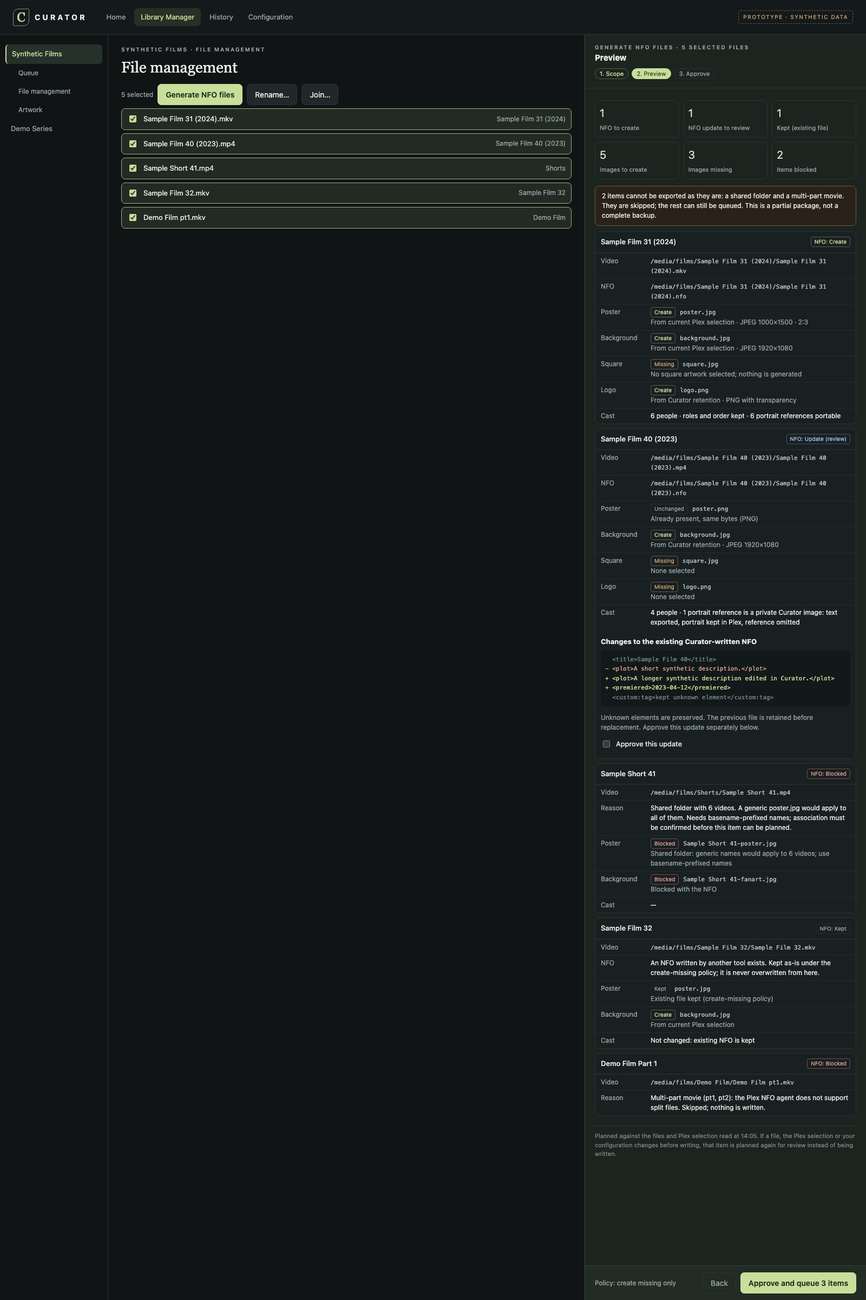
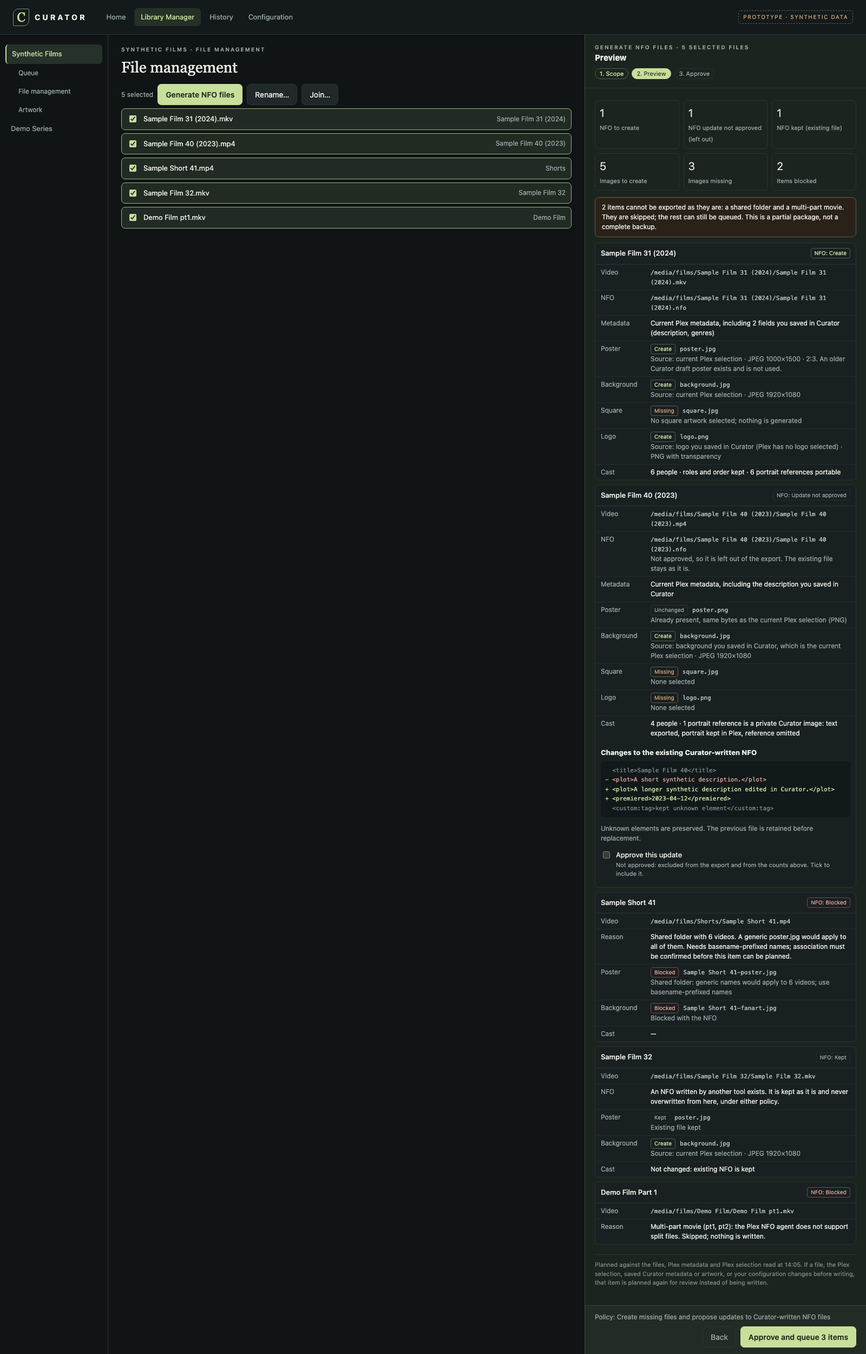
NFO export review design: policy and update approval drive every count; one File operations job; current sources (#106)
Addresses Codex review of 1abb397 and the operator's 2026-11-21 source
decision: counts, footer, confirmation, queue card and receipt are computed
from the selected policy and per-update approval, with not-approved and
approved scenarios; the queued export is one job in File operations with
empty queue types hidden; every file shows its current source.

diff --git a/docs/designs/v2-nfo-backfill-20261120/prototype.html b/docs/designs/v2-nfo-backfill-20261120/prototype.html
@@ -37,20 +37,38 @@ dialog{background:#1b2324;color:var(--text);border:1px solid #42504d;border-radi
 const S=new URLSearchParams(location.hash.slice(1)).get('s')||'scope';
 const h=(t,a={},...k)=>{const e=document.createElement(t);for(const [x,v] of Object.entries(a)){if(x==='class')e.className=v;else if(v!=null&&v!==false)e.setAttribute(x,v===true?'':v);}for(const c of k.flat())if(c!=null&&c!==false)e.append(c instanceof Node?c:document.createTextNode(c));return e;};
 const tag=(cls,text)=>h('span',{class:'tag '+cls},text);
-// Synthetic plan items (shape proposed for #90/#91): one row per media file
+// Synthetic plan items (shape proposed for #90/#91): one row per media file.
+// Every count, footer, confirmation, queue card and receipt below is computed from POLICY and APPROVED,
+// so the approval shown always agrees with the manifest.
+const POLICY=['detail','approved','approve','queued','receipt'].includes(S)?'update':'create';
+const APPROVED=['approved','approve','queued','receipt'].includes(S);
 const ITEMS=[
  {title:'Sample Film 31 (2024)',folder:'/media/films/Sample Film 31 (2024)/',video:'Sample Film 31 (2024).mkv',nfo:['create','Sample Film 31 (2024).nfo'],
-  images:[['Poster','poster.jpg','create','From current Plex selection · JPEG 1000×1500 · 2:3'],['Background','background.jpg','create','From current Plex selection · JPEG 1920×1080'],['Square','square.jpg','missing','No square artwork selected; nothing is generated'],['Logo','logo.png','create','From Curator retention · PNG with transparency']],cast:'6 people · roles and order kept · 6 portrait references portable'},
- {title:'Sample Film 40 (2023)',folder:'/media/films/Sample Film 40 (2023)/',video:'Sample Film 40 (2023).mp4',nfo:['update','Sample Film 40 (2023).nfo'],
-  images:[['Poster','poster.png','same','Already present, same bytes (PNG)'],['Background','background.jpg','create','From Curator retention · JPEG 1920×1080'],['Square','square.jpg','missing','None selected'],['Logo','logo.png','missing','None selected']],cast:'4 people · 1 portrait reference is a private Curator image: text exported, portrait kept in Plex, reference omitted',existing:true},
+  metadata:'Current Plex metadata, including 2 fields you saved in Curator (description, genres)',
+  images:[['Poster','poster.jpg','create','Source: current Plex selection · JPEG 1000×1500 · 2:3. An older Curator draft poster exists and is not used.'],['Background','background.jpg','create','Source: current Plex selection · JPEG 1920×1080'],['Square','square.jpg','missing','No square artwork selected; nothing is generated'],['Logo','logo.png','create','Source: logo you saved in Curator (Plex has no logo selected) · PNG with transparency']],cast:'6 people · roles and order kept · 6 portrait references portable'},
+ {title:'Sample Film 40 (2023)',folder:'/media/films/Sample Film 40 (2023)/',video:'Sample Film 40 (2023).mp4',nfo:['existing','Sample Film 40 (2023).nfo'],existing:true,
+  metadata:'Current Plex metadata, including the description you saved in Curator',
+  images:[['Poster','poster.png','same','Already present, same bytes as the current Plex selection (PNG)'],['Background','background.jpg','create','Source: background you saved in Curator, which is the current Plex selection · JPEG 1920×1080'],['Square','square.jpg','missing','None selected'],['Logo','logo.png','missing','None selected']],cast:'4 people · 1 portrait reference is a private Curator image: text exported, portrait kept in Plex, reference omitted'},
  {title:'Sample Short 41',folder:'/media/films/Shorts/',video:'Sample Short 41.mp4',nfo:['block','—'],shared:true,
   images:[['Poster','Sample Short 41-poster.jpg','block','Shared folder: generic names would apply to 6 videos; use basename-prefixed names'],['Background','Sample Short 41-fanart.jpg','block','Blocked with the NFO']],cast:'—'},
  {title:'Sample Film 32',folder:'/media/films/Sample Film 32/',video:'Sample Film 32.mkv',nfo:['skip','Sample Film 32.nfo'],third:true,
-  images:[['Poster','poster.jpg','skip','Existing file kept (create-missing policy)'],['Background','background.jpg','create','From current Plex selection']],cast:'Not changed: existing NFO is kept'},
+  images:[['Poster','poster.jpg','skip','Existing file kept'],['Background','background.jpg','create','Source: current Plex selection · JPEG 1920×1080']],cast:'Not changed: existing NFO is kept'},
  {title:'Demo Film Part 1',folder:'/media/films/Demo Film/',video:'Demo Film pt1.mkv',nfo:['block','—'],
   images:[],cast:'—',multipart:true},
 ];
-const labels={create:'Create',same:'Unchanged',update:'Update (review)',block:'Blocked',missing:'Missing',skip:'Kept'};
+const labels={create:'Create',same:'Unchanged',update:'Update (approved)',proposed:'Update (needs approval)',excluded:'Update not approved',block:'Blocked',missing:'Missing',skip:'Kept',kept:'Kept'};
+const tagClass={proposed:'update',excluded:'skip',kept:'skip'};
+// The NFO action for an item under the current policy and approval.
+function nfoState(it){if(!it.existing)return it.nfo[0];if(POLICY==='create')return 'kept';return APPROVED?'update':(S==='detail'?'excluded':'proposed');}
+function manifest(){const m={items:0,create:0,update:0,excluded:0,kept:0,images:0,missing:0,blocked:0};
+ for(const it of ITEMS){const n=nfoState(it);if(n==='block'){m.blocked++;continue;}
+  if(n==='create')m.create++;if(n==='update')m.update++;if(n==='excluded'||n==='proposed')m.excluded++;if(n==='skip'||n==='kept')m.kept++;
+  const images=it.images.filter(i=>i[2]==='create').length;m.images+=images;m.missing+=it.images.filter(i=>i[2]==='missing').length;
+  if(n==='create'||n==='update'||images)m.items++;}
+ return m;}
+const M=manifest(),plural=(n,one,many)=>n+' '+(n===1?one:many);
+const policyText=POLICY==='create'?'Create missing files only':'Create missing files and propose updates to Curator-written NFO files';
+function nfoParts(){return [M.create?plural(M.create,'new NFO file','new NFO files'):null,M.update?plural(M.update,'approved NFO update','approved NFO updates')+' (previous file retained)':null,plural(M.images,'image','images')].filter(Boolean).join(', ');}
 function side(){return h('nav',{class:'side'},h('div',{class:'sel'},'Synthetic Films'),h('div',{class:'sub'},'Queue'),h('div',{class:'sub'},'File management'),h('div',{class:'sub'},'Artwork'),h('div',{},'Demo Series'));}
 function list(){const l=h('main',{class:'list'},h('div',{class:'eyebrow'},'SYNTHETIC FILMS · FILE MANAGEMENT'),h('h1',{},'File management'),
  h('div',{class:'row'},h('span',{class:'muted'},'5 selected'),h('button',{class:'primary'},'Generate NFO files'),h('button',{},'Rename…'),h('button',{},'Join…')));
@@ -61,48 +79,59 @@ function steps(n){return h('div',{class:'steps'},...['Scope','Preview','Approve'
 function scope(){return [h('div',{class:'head'},h('div',{class:'eyebrow'},'GENERATE NFO FILES'),h('h2',{},'Choose what to export'),steps(0)),
  h('div',{class:'body'},
   h('fieldset',{},h('legend',{},'Scope'),opt('scope','5 selected files',true,'Exactly the files selected in the list'),opt('scope','Folder: Sample Film 31 (2024)',false,'Every video under this folder'),opt('scope','Whole library: Synthetic Films (140 files)',false,'Large plans are summarised; every item can be expanded')),
-  h('fieldset',{},h('legend',{},'Existing files'),opt('policy','Create missing files only (default)',true,'Existing NFO and image files are kept untouched'),opt('policy','Also propose updates to Curator-written files',false,'Each update is shown as a difference and must be approved; the previous file is retained. Files written by other tools are never updated here.')),
-  h('fieldset',{},h('legend',{},'Include'),opt('inc','NFO metadata',true,'Title, description, dates, studio, genres, verified IDs, ratings with their source, credits and cast',true),opt('inc','Every available supported image',true,'Poster, background, square artwork and logo beside the video, using Plex names. Missing kinds are reported, never generated.',true)),
+  h('fieldset',{},h('legend',{},'Existing files'),opt('policy','Create missing files only (default)',true,'Existing NFO and image files are kept untouched'),opt('policy','Also propose updates to Curator-written NFO files',false,'Each update is shown as a difference and must be approved one by one; an update you do not approve is left out. The previous file is retained. Files written by other tools are never updated here.')),
+  h('fieldset',{},h('legend',{},'Include'),opt('inc','NFO metadata',true,'Current Plex metadata, including edits you saved in Curator: title, description, dates, studio, genres, verified IDs, ratings with their source, credits and cast',true),opt('inc','Every available supported image',true,'The current Plex selection, or artwork you explicitly saved in Curator, beside the video using Plex names. Each image shows its source. Missing kinds are reported, never generated.',true)),
   h('p',{class:'muted'},'Planning reads Plex and your files only. Nothing is written until you approve, and Plex is not refreshed or switched to another agent.')),
  h('div',{class:'foot'},h('button',{class:'subtle'},'Cancel'),h('button',{class:'primary',style:'margin-left:auto'},'Build preview'))];}
 function opt(name,text,checked,sub,locked){return h('label',{class:'opt'},h('input',{type:name==='inc'?'checkbox':'radio',name,checked,disabled:locked}),h('span',{},text,h('small',{},sub)));}
 function itemCard(it,open){
- const c=h('section',{class:'item'},h('div',{class:'top'},h('b',{},it.title),tag(it.nfo[0],'NFO: '+labels[it.nfo[0]])));
+ const n=nfoState(it),c=h('section',{class:'item'},h('div',{class:'top'},h('b',{},it.title),tag(tagClass[n]||n,'NFO: '+labels[n])));
  const t=h('table',{});
  t.append(h('tr',{},h('td',{},'Video'),h('td',{},h('span',{class:'path'},it.folder+it.video))));
  if(it.multipart){t.append(h('tr',{},h('td',{},'Reason'),h('td',{},'Multi-part movie (pt1, pt2): the Plex NFO agent does not support split files. Skipped; nothing is written.')));c.append(t);return c;}
  if(it.shared){t.append(h('tr',{},h('td',{},'Reason'),h('td',{},'Shared folder with 6 videos. A generic poster.jpg would apply to all of them. Needs basename-prefixed names; association must be confirmed before this item can be planned.')));}
- if(it.third){t.append(h('tr',{},h('td',{},'NFO'),h('td',{},'An NFO written by another tool exists. Kept as-is under the create-missing policy; it is never overwritten from here.')));}
- else if(!it.shared)t.append(h('tr',{},h('td',{},'NFO'),h('td',{},h('span',{class:'path'},it.folder+it.nfo[1]))));
+ if(it.third){t.append(h('tr',{},h('td',{},'NFO'),h('td',{},'An NFO written by another tool exists. It is kept as it is and never overwritten from here, under either policy.')));}
+ else if(n==='kept')t.append(h('tr',{},h('td',{},'NFO'),h('td',{},h('span',{class:'path'},it.folder+it.nfo[1]),h('div',{class:'muted'},'A Curator-written NFO exists and is kept as it is under the create-missing policy. Choose “Also propose updates” to review changes to it.'))));
+ else if(!it.shared)t.append(h('tr',{},h('td',{},'NFO'),h('td',{},h('span',{class:'path'},it.folder+it.nfo[1]),n==='excluded'||n==='proposed'?h('div',{class:'muted'},'Not approved, so it is left out of the export. The existing file stays as it is.'):null)));
+ if(it.metadata)t.append(h('tr',{},h('td',{},'Metadata'),h('td',{},it.metadata)));
  for(const [k,f,st,why] of it.images)t.append(h('tr',{},h('td',{},k),h('td',{},h('div',{class:'row'},tag(st,labels[st]),h('span',{class:'path'},f)),h('div',{class:'muted'},why))));
  t.append(h('tr',{},h('td',{},'Cast'),h('td',{},it.cast)));
  c.append(t);
- if(open&&it.existing)c.append(h('div',{style:'padding:0 10px 10px'},h('h3',{},'Changes to the existing Curator-written NFO'),h('div',{class:'diff'},
+ if(open&&it.existing&&POLICY==='update')c.append(h('div',{style:'padding:0 10px 10px'},h('h3',{},'Changes to the existing Curator-written NFO'),h('div',{class:'diff'},
   h('span',{class:'keep'},'  <title>Sample Film 40</title>\n'),h('span',{class:'del'},'- <plot>A short synthetic description.</plot>\n'),h('span',{class:'add'},'+ <plot>A longer synthetic description edited in Curator.</plot>\n'),h('span',{class:'add'},'+ <premiered>2023-04-12</premiered>\n'),h('span',{class:'keep'},'  <custom:tag>kept unknown element</custom:tag>\n')),
-  h('p',{class:'muted'},'Unknown elements are preserved. The previous file is retained before replacement. Approve this update separately below.'),h('label',{class:'opt'},h('input',{type:'checkbox'}),h('span',{},'Approve this update'))));
+  h('p',{class:'muted'},'Unknown elements are preserved. The previous file is retained before replacement.'),
+  h('label',{class:'opt'},h('input',{type:'checkbox',checked:APPROVED}),h('span',{},'Approve this update',h('small',{},APPROVED?'Approved: included in the export and in the counts above.':'Not approved: excluded from the export and from the counts above. Tick to include it.')))));
  return c;}
-function preview(open){return [h('div',{class:'head'},h('div',{class:'eyebrow'},'GENERATE NFO FILES · 5 SELECTED FILES'),h('h2',{},'Preview'),steps(1)),
+function preview(open){
+ const tiles=[[M.create,'NFO to create']];
+ if(M.update)tiles.push([M.update,'NFO update approved']);
+ if(M.excluded)tiles.push([M.excluded,POLICY==='update'?'NFO update not approved (left out)':'NFO update']);
+ tiles.push([M.kept,'NFO kept (existing file)'],[M.images,'Images to create'],[M.missing,'Images missing'],[M.blocked,'Items blocked']);
+ return [h('div',{class:'head'},h('div',{class:'eyebrow'},'GENERATE NFO FILES · 5 SELECTED FILES'),h('h2',{},'Preview'),steps(1)),
  h('div',{class:'body'},
-  h('div',{class:'sum'},...[['1','NFO to create'],['1','NFO update to review'],['1','Kept (existing file)'],['5','Images to create'],['3','Images missing'],['2','Items blocked']].map(([n,t])=>h('div',{},h('b',{},n),h('small',{},t)))),
-  h('div',{class:'banner warn'},'2 items cannot be exported as they are: a shared folder and a multi-part movie. They are skipped; the rest can still be queued. This is a partial package, not a complete backup.'),
+  h('div',{class:'sum'},...tiles.map(([n,t])=>h('div',{},h('b',{},String(n)),h('small',{},t)))),
+  h('div',{class:'banner warn'},M.blocked+' items cannot be exported as they are: a shared folder and a multi-part movie. They are skipped; the rest can still be queued. This is a partial package, not a complete backup.'),
   ...ITEMS.map((it,i)=>itemCard(it,open&&i===1)),
-  h('p',{class:'note'},'Planned against the files and Plex selection read at 14:05. If a file, the Plex selection or your configuration changes before writing, that item is planned again for review instead of being written.')),
- h('div',{class:'foot'},h('span',{class:'muted'},'Policy: create missing only'),h('button',{class:'subtle',style:'margin-left:auto'},'Back'),h('button',{class:'primary',id:'approve'},'Approve and queue 3 items'))];}
+  h('p',{class:'note'},'Planned against the files, Plex metadata and Plex selection read at 14:05. If a file, the Plex selection, saved Curator metadata or artwork, or your configuration changes before writing, that item is planned again for review instead of being written.')),
+ h('div',{class:'foot'},h('span',{class:'muted'},'Policy: '+policyText),h('button',{class:'subtle',style:'margin-left:auto'},'Back'),h('button',{class:'primary',id:'approve'},'Approve and queue '+plural(M.items,'item','items')))];}
 function queueOrHistory(){
  const m=h('main',{class:'list'});
- if(S==='queued'){m.append(h('div',{class:'eyebrow'},'ALL LIBRARIES'),h('h1',{},'Queue'),h('div',{class:'banner ok'},'NFO export queued: 3 items, 2 skipped. It runs in File operations with the existing limit, pause and recovery. The queue was not started by this approval.'),
-  h('div',{class:'lanes'},h('section',{class:'lane'},h('h3',{},'UPSCALING'),h('p',{class:'muted'},'Nothing waiting.')),h('section',{class:'lane'},h('h3',{},'ENCODING'),h('p',{class:'muted'},'Nothing waiting.')),
-   h('section',{class:'lane'},h('h3',{},'FILE OPERATIONS'),h('div',{class:'job'},'Export NFO and artwork · Synthetic Films',h('small',{},'3 items · waiting for Start queue'),h('small',{},'Writes beside media only; never refreshes Plex')))));return m;}
+ if(S==='queued'){m.append(h('div',{class:'eyebrow'},'ALL LIBRARIES'),h('h1',{},'Queue'),h('div',{class:'banner ok'},'NFO export queued as one File operations job with '+plural(M.items,'approved item','approved items')+'; '+M.blocked+' skipped. It uses the existing limit, pause and recovery. The queue was not started by this approval.'),
+  h('div',{class:'lanes'},h('section',{class:'lane'},h('h3',{},'FILE OPERATIONS'),h('div',{class:'job'},'Export NFO and artwork · Synthetic Films',h('small',{},'One job · '+plural(M.items,'item','items')+': '+nfoParts()),h('small',{},'Waiting for Start queue · writes beside media only; never refreshes Plex')))),
+  h('p',{class:'note'},'Only File operations is shown because it is the only queue type with jobs; empty types are hidden, as in the existing queue.'));return m;}
  m.append(h('div',{class:'eyebrow'},'HISTORY · JOBS'),h('h1',{},'History'),
   h('section',{class:'item'},h('div',{class:'top'},h('b',{},'Export NFO and artwork · Synthetic Films'),tag('missing','Finished with omissions')),
-   h('table',{},h('tr',{},h('td',{},'Initiator'),h('td',{},'You · approved 14:07 · finished 14:12')),h('tr',{},h('td',{},'NFO'),h('td',{},'Created 1 · Updated 1 (previous file retained) · Kept 1 · Skipped 2 (shared folder, multi-part)')),
-    h('tr',{},h('td',{},'Images'),h('td',{},'Created 4 · Unchanged 1 · Missing 3 (no source selected) · Failed 1: background.jpg for Sample Film 32 (mount went offline; nothing partial left behind, retry rechecks the file)')),
+   h('table',{},h('tr',{},h('td',{},'Initiator'),h('td',{},'You · approved 14:07 · finished 14:12 · one job, '+plural(M.items,'item','items'))),
+    h('tr',{},h('td',{},'Policy'),h('td',{},policyText+' · '+plural(M.update,'update','updates')+' approved')),
+    h('tr',{},h('td',{},'NFO'),h('td',{},'Created '+M.create+' · Updated '+M.update+' (previous file retained) · Kept '+M.kept+' · Skipped '+M.blocked+' (shared folder, multi-part)')),
+    h('tr',{},h('td',{},'Images'),h('td',{},'Created '+(M.images-1)+' · Unchanged 1 · Missing '+M.missing+' (no source selected) · Failed 1: background.jpg for Sample Film 32 (mount went offline; nothing partial left behind, retry rechecks the file)')),
+    h('tr',{},h('td',{},'Sources'),h('td',{},'Metadata: current Plex metadata, including edits saved in Curator. Artwork: current Plex selection, or artwork explicitly saved in Curator; each file’s source is in the per-item receipt.')),
     h('tr',{},h('td',{},'Verified'),h('td',{},'Every written file was read back and its hash recorded')),
     h('tr',{},h('td',{},'Not done'),h('td',{},'Plex was not refreshed. Refreshing is a separate action with its own identity checks. This is a partial package, not a complete backup.')))),
   h('div',{class:'row'},h('button',{},'Retry 1 failed image'),h('button',{class:'subtle'},'View per-item receipt')));
  return m;}
 const wb=document.getElementById('wb');
 wb.append(side(),list());
-if(['scope','preview','detail','approve'].includes(S)){const p=h('aside',{class:'panel','aria-label':'Generate NFO files'});p.append(...(S==='scope'?scope():preview(S==='detail')));wb.append(p);}
-if(S==='approve'){document.getElementById('confirm-text').textContent='3 items will be written beside their videos: 1 new NFO file, 1 reviewed NFO update (the previous file is retained) and 5 images. 2 items are skipped. Existing files are never overwritten without your approval. Plex is not refreshed. It runs in the File operations queue when the queue is started.';setTimeout(()=>document.getElementById('confirm').showModal(),0);}
+if(['scope','preview','detail','approved','approve'].includes(S)){const p=h('aside',{class:'panel','aria-label':'Generate NFO files'});p.append(...(S==='scope'?scope():preview(S==='detail'||S==='approved')));wb.append(p);}
+if(S==='approve'){document.getElementById('confirm-text').textContent=plural(M.items,'item','items')+' will be written beside their videos as one export job: '+nfoParts()+'. '+M.blocked+' items are skipped. Existing files are never overwritten without your approval. Plex is not refreshed. It runs in the File operations queue when the queue is started.';setTimeout(()=>document.getElementById('confirm').showModal(),0);}
 </script></body></html>

diff --git a/docs/designs/v2-nfo-backfill-20261120/README.md b/docs/designs/v2-nfo-backfill-20261120/README.md
@@ -1,18 +1,19 @@
 # NFO and artwork backfill — proposed workflow, 2026-11-20
 
-Design for issue #106. **Status: proposed, awaiting operator approval.** It is the operator-facing workflow for the spec in PR #89 (`docs/nfo-generation-spec.md`, NFO-01 to NFO-07), which remains the technical reference and is reviewed there. This package is a static prototype with synthetic data. It is not served by Curator, exports nothing and writes no files. #90 (NFO export) and #91 (image sidecars) implement it after approval.
+Design for issue #106. **Status: operator approved the displayed export review direction on 2026-11-21 ("this looks good") and confirmed export uses current saved metadata and artwork; review corrections below are pending exact-head cross-review.** It is the operator-facing workflow for the spec in PR #89 (`docs/nfo-generation-spec.md`, NFO-01 to NFO-07), which remains the technical reference and is reviewed there. This package is a static prototype with synthetic data. It is not served by Curator, exports nothing and writes no files. #90 (NFO export) and #91 (image sidecars) implement it after approval.
 
-Baseline: v2 `146d6ede13fe28befe76bcf9c8c4f57c32061ffa`. Open `prototype.html`; `#s=` picks a scenario: `scope`, `preview`, `detail`, `approve`, `queued`, `receipt`. All names, paths and counts are synthetic.
+Baseline: v2 `146d6ede13fe28befe76bcf9c8c4f57c32061ffa`. Open `prototype.html`; `#s=` picks a scenario: `scope`, `preview`, `detail`, `approved`, `approve`, `queued`, `receipt`. Every count, footer, confirmation, queue card and receipt is computed from the scenario's policy and update approval, so they cannot disagree. All names, paths and counts are synthetic.
 
 ## Renders
 
 | Render | Shows | Spec |
 | --- | --- | --- |
 | [scope.png](scope.png) | **Generate NFO files** in Library Manager → File management. Scope (selected files, folder, whole library), **Create missing files only** as the default, NFO and every available supported image | NFO-01, NFO-04, NFO-06 |
-| [preview.png](preview.png) | Summary counts; every item's exact video path, NFO destination and each image (poster, background, square, logo) as Create / Unchanged / Missing / Kept / Blocked with its source, format and reason; a partial-package warning | NFO-03, NFO-06 |
-| [detail.png](detail.png) | An update to a Curator-written NFO: field diff, unknown elements preserved, previous file retained, separate approval; cast portability (a private portrait reference is omitted and the portrait stays in Plex) | NFO-02, NFO-04 |
-| [approve.png](approve.png) | The approval says exactly what will be written and skipped, that nothing is overwritten without approval, that Plex is not refreshed, and that it runs only when the queue is started | NFO-05 |
-| [queued.png](queued.png) | The export waits in the existing **File operations** lane with its limit, pause and recovery | NFO-05 |
+| [preview.png](preview.png) | **Create missing files only** (default): the Curator-written NFO is shown as Kept, not as an update. Summary counts; every item's exact video path, NFO destination and each image (poster, background, square, logo) as Create / Unchanged / Missing / Kept / Blocked with its source, format and reason; a partial-package warning | NFO-03, NFO-06 |
+| [detail.png](detail.png) | **Also propose updates**, with the update **not approved**: field diff, unknown elements preserved, previous file retained; the update is marked "left out" and is excluded from the counts and the Approve button; cast portability (a private portrait reference is omitted and the portrait stays in Plex) | NFO-02, NFO-04 |
+| [approved.png](approved.png) | The same plan with the update **approved**: it is counted and included | NFO-02, NFO-05 |
+| [approve.png](approve.png) | For the approved plan, the confirmation says exactly what will be written and skipped, that nothing is overwritten without approval, that Plex is not refreshed, and that it runs only when the queue is started | NFO-05 |
+| [queued.png](queued.png) | The export waits as **one job** containing the approved items in the existing **File operations** lane, with its limit, pause and recovery. Other queue types have no jobs, so they are hidden | NFO-05 |
 | [receipt.png](receipt.png) | Job history receipt: initiator, per-kind outcomes, verified hashes, a failed image with a revalidating retry, "partial package, not a complete backup", "Plex was not refreshed" | NFO-07 |
 | [phone-preview.png](phone-preview.png) | The preview at 390 px | — |
 
@@ -26,8 +27,10 @@ Baseline: v2 `146d6ede13fe28befe76bcf9c8c4f57c32061ffa`. Open `prototype.html`; 
 6. **Partial packages are named as such.** Any plan with blocked, missing or failed items says "partial package, not a complete backup", in the preview and in the receipt.
 7. **Cast stays as it is.** The export writes existing names, roles and order. A portrait reference that is not portable (a private Curator image, or a URL with a token) is omitted, and the portrait in Plex is untouched.
 8. **Existing machinery.** Approval queues one job in the existing File operations lane: the same limit, pause, recovery and "never starts the queue" behaviour. The receipt is a Job history entry; changing export settings is a Curator history event.
-9. **Staleness.** If a file, the Plex selection or the configuration changes between preview and writing, that item is planned again for review instead of being written.
-10. **No Plex side effects.** No refresh, agent switch, library change or artwork publication. Refreshing Plex stays a separate, separately approved action.
+9. **Staleness.** If a file, the Plex selection, saved Curator metadata or artwork, or the configuration changes between preview and writing, that item is planned again for review instead of being written.
+10. **Sources are current and visible (operator, 2026-11-21).** The NFO is written from current Plex metadata, including edits saved in Curator. Each image is the current Plex selection, or artwork explicitly saved or retained in Curator where appropriate (for example a logo Plex has no selection for), and the plan shows which for every file. An older retained draft is never used in place of the current selection; when one exists, the plan says it is not used.
+11. **Policy and approval agree with the manifest.** The footer names the selected policy. Under create-missing, Curator-written NFOs are Kept. Under propose-updates, each update needs its own approval; an unapproved update is excluded from the counts, the Approve button, the confirmation, the queued job and the receipt.
+12. **No Plex side effects.** No refresh, agent switch, library change or artwork publication. Refreshing Plex stays a separate, separately approved action.
 
 ## Questions for the operator
 
